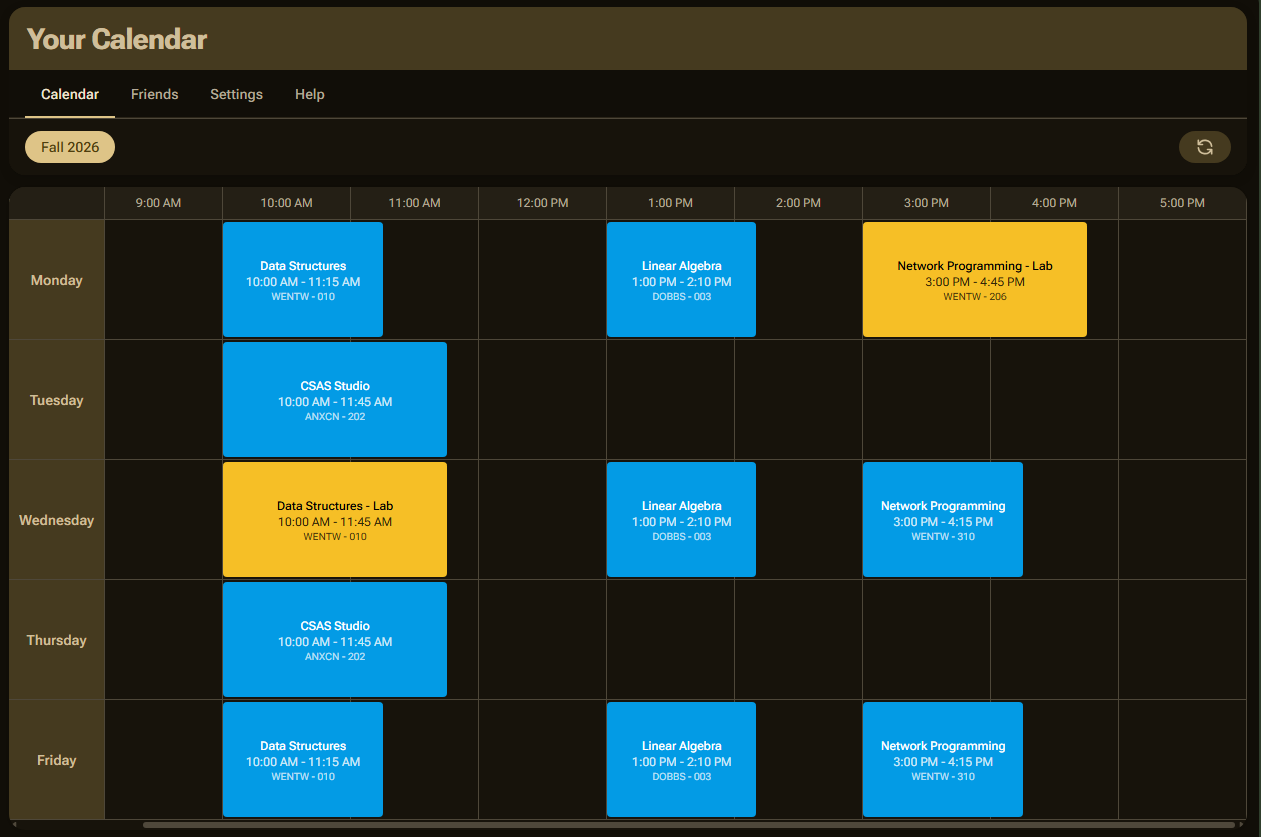
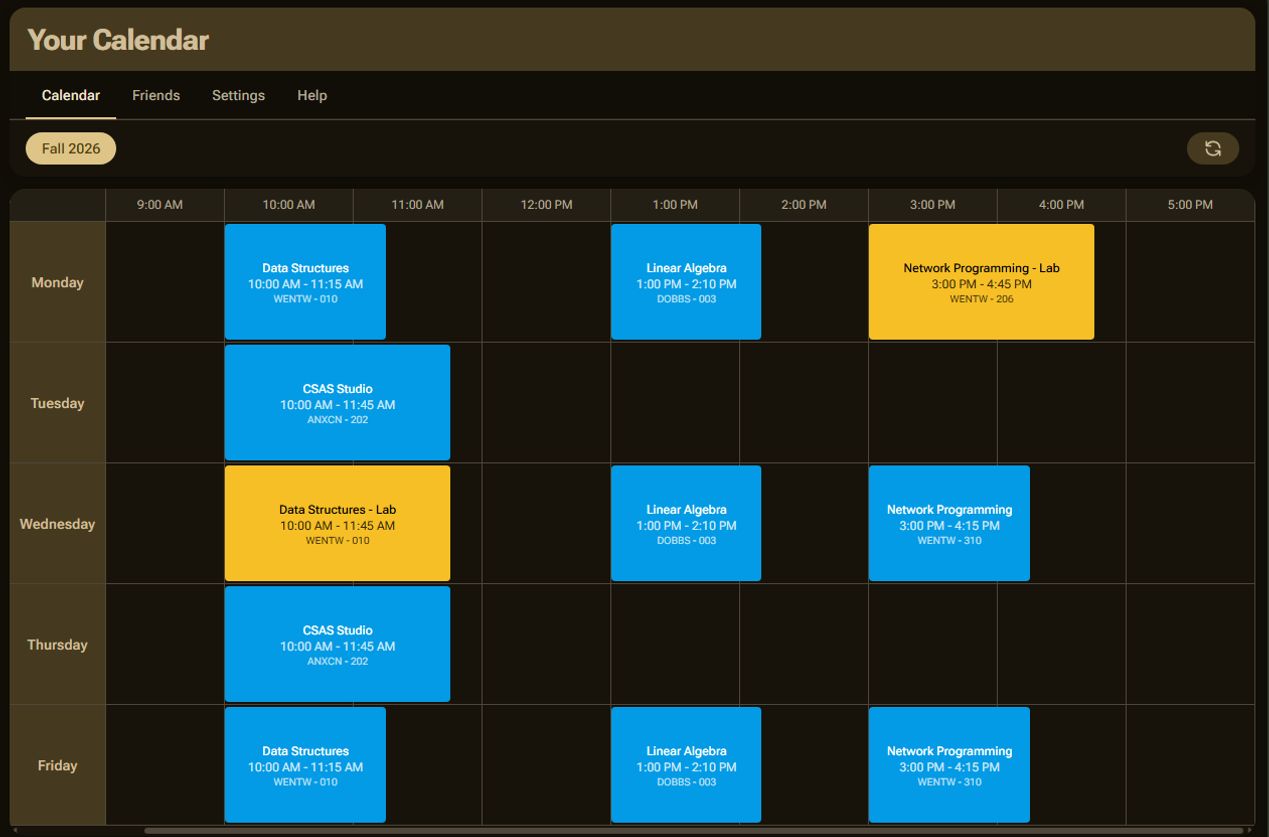
crop images to proper size so they fit in the outlines

diff --git a/src/routes/+page.svelte b/src/routes/+page.svelte
@@ -70,9 +70,9 @@
 <div class="flex justify-center items-center mt-8 px-4 sm:px-6">
     <div class="rounded-3xl w-full max-w-6xl px-4 sm:px-8 md:px-16 py-8 sm:py-12">
         <div class="flex flex-col sm:flex-row justify-center items-end gap-6 md:gap-8">
-            <img src="/settings.png" alt="Settings page" class="outline outline-tertiary w-full max-w-[420px] sm:w-[clamp(220px,24vw,420px)] lg:w-[clamp(240px,26vw,460px)] lg:max-w-[460px] h-auto aspect-16/10 object-contain p-2 bg-[rgb(var(--m3-scheme-surface))] rounded-xl shadow-md transition-transform duration-200 ease-in-out sm:transform sm:rotate-2 sm:translate-y-[8px] sm:hover:rotate-1 sm:hover:translate-y-[2px] hover:scale-[1.03] hover:shadow-xl order-2 sm:order-0 mx-auto" />
-            <img src="/calendar.png" alt="Primary page" class="outline outline-primary w-full max-w-[640px] sm:w-[clamp(300px,36vw,640px)] lg:w-[clamp(360px,40vw,720px)] lg:max-w-[720px] h-auto aspect-16/10 object-contain p-2 bg-[rgb(var(--m3-scheme-surface))] rounded-xl shadow-lg transition-transform duration-200 ease-in-out sm:transform sm:-translate-y-[8px] z-10 sm:hover:-translate-y-[6px] hover:scale-[1.03] hover:shadow-xl order-1 sm:order-1 mx-auto" />
-            <img src="/help.png" alt="Help page" class="outline outline-tertiary w-full max-w-[420px] sm:w-[clamp(220px,24vw,420px)] lg:w-[clamp(240px,26vw,460px)] lg:max-w-[460px] h-auto aspect-16/10 object-contain p-2 bg-[rgb(var(--m3-scheme-surface))] rounded-xl shadow-md transition-transform duration-200 ease-in-out sm:transform sm:-rotate-2 sm:translate-y-[8px] sm:hover:-rotate-1 sm:hover:translate-y-[2px] hover:scale-[1.03] hover:shadow-xl order-2 sm:order-2 mx-auto" />
+            <img src="/settings.png" alt="Settings page" class="outline outline-tertiary w-full max-w-[420px] sm:w-[clamp(220px,24vw,420px)] lg:w-[clamp(240px,26vw,460px)] lg:max-w-[460px] h-auto aspect-16/10 object-cover rounded-xl shadow-md transition-transform duration-200 ease-in-out sm:transform sm:rotate-2 sm:translate-y-[8px] sm:hover:rotate-1 sm:hover:translate-y-[2px] hover:scale-[1.03] hover:shadow-xl order-2 sm:order-0 mx-auto" />
+            <img src="/calendar.png" alt="Calendar page" class="outline outline-primary w-full max-w-[640px] sm:w-[clamp(300px,36vw,640px)] lg:w-[clamp(360px,40vw,720px)] lg:max-w-[720px] h-auto aspect-16/10 object-cover rounded-xl shadow-lg transition-transform duration-200 ease-in-out sm:transform sm:-translate-y-[8px] z-10 sm:hover:-translate-y-[6px] hover:scale-[1.03] hover:shadow-xl order-1 sm:order-1 mx-auto" />
+            <img src="/help.png" alt="Help page" class="outline outline-tertiary w-full max-w-[420px] sm:w-[clamp(220px,24vw,420px)] lg:w-[clamp(240px,26vw,460px)] lg:max-w-[460px] h-auto aspect-16/10 object-cover rounded-xl shadow-md transition-transform duration-200 ease-in-out sm:transform sm:-rotate-2 sm:translate-y-[8px] sm:hover:-rotate-1 sm:hover:translate-y-[2px] hover:scale-[1.03] hover:shadow-xl order-2 sm:order-2 mx-auto" />
         </div>
     </div>
 </div>
